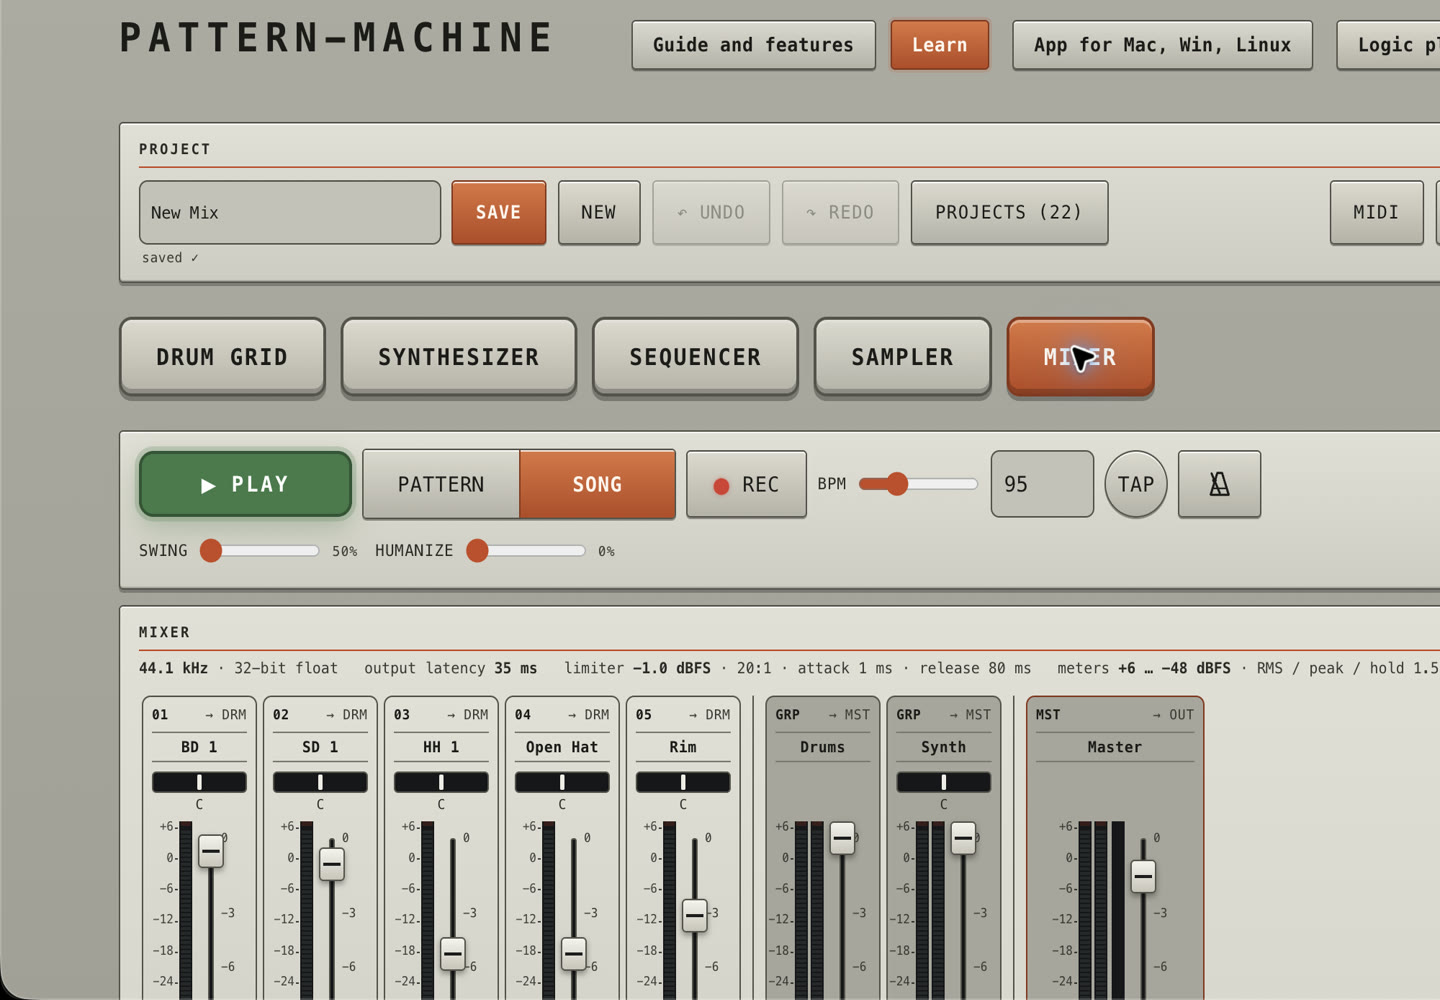
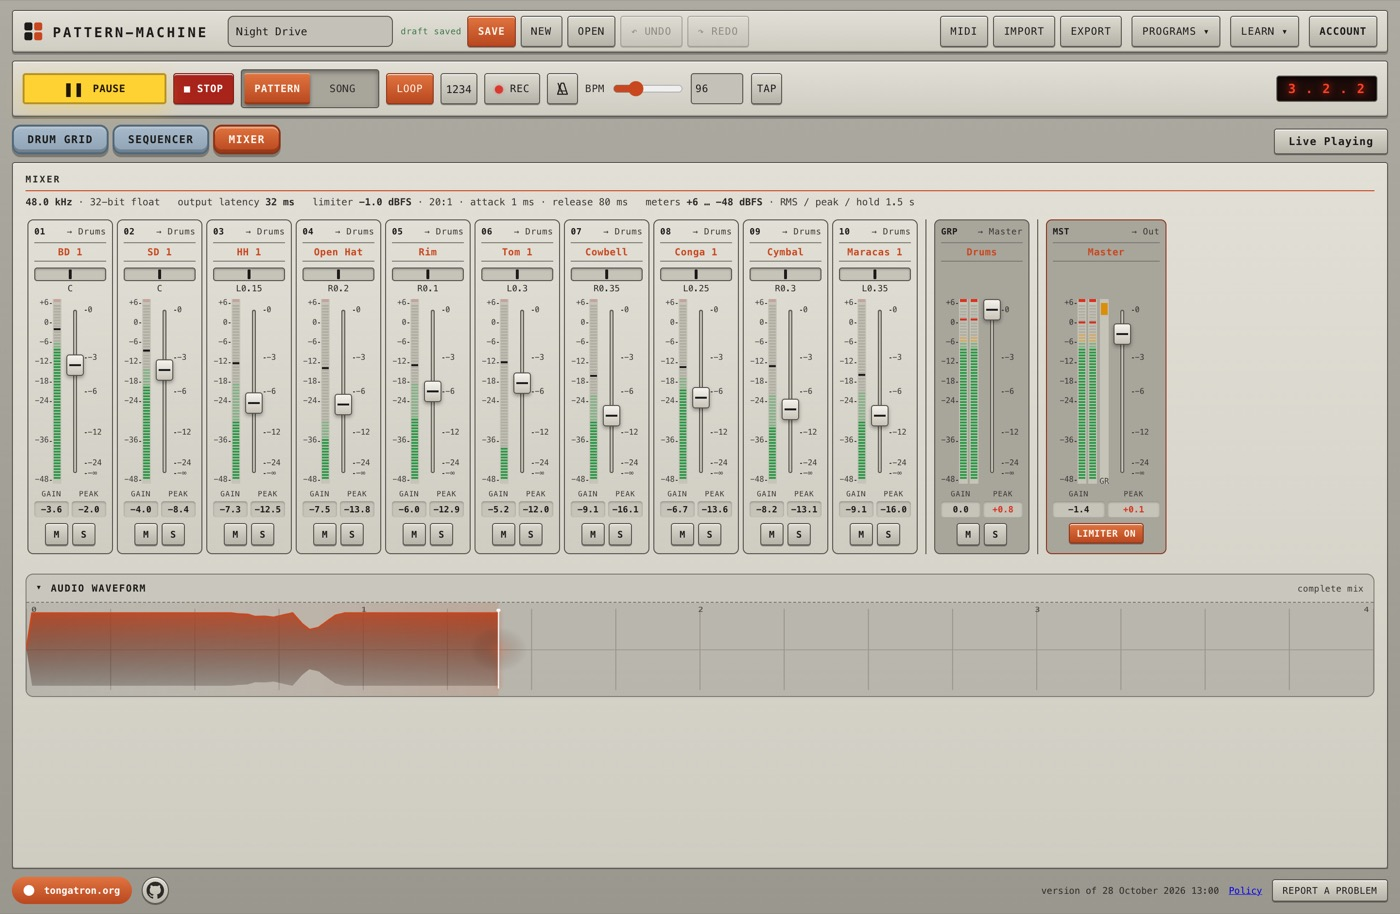
Landing: new One page screenshots, Drum Grid large, Sequencer and Mixer side by side
Recaptured Drum Grid, Sequencer and Mixer from the current One page layout
(TR-808, ten rows, seven-block song, live mixer meters). The gallery now
shows the Drum Grid full width and Sequencer and Mixer in two columns right
below it; captions (EN/IT) follow the new order.

diff --git a/site/landing.html b/site/landing.html
@@ -413,10 +413,10 @@ footer{display:flex; flex-direction:column; align-items:center; gap:10px; margin
 <section class="panel" id="screens">
   <p class="label">Screenshots</p>
   <div class="gallery">
-    <figure class="wide"><img src="assets/landing/griglia.jpg?v=2026-10-05.1" alt="Drum Grid with per-step Probability, Ratchets, Flam, Tuning, Decay and Filter controls" loading="lazy" width="1440" height="1000"><figcaption>Drum Grid · deep per-step editing</figcaption></figure>
-    <figure><img src="assets/landing/sequencer.jpg?v=2026-10-05.1" alt="Song Sequencer with arrangement blocks and a synth lane" loading="lazy" width="1440" height="1000"><figcaption>Sequencer · song blocks and synth lane</figcaption></figure>
+    <figure class="wide"><img src="assets/landing/griglia.jpg?v=2026-10-28.1" alt="Drum Grid on a Roland TR-808 with ten rows and per-step Probability, Ratchets, Flam, Tuning, Decay and Filter controls" loading="lazy" width="2000" height="1305"><figcaption>Drum Grid · deep per-step editing</figcaption></figure>
+    <figure><img src="assets/landing/sequencer.jpg?v=2026-10-28.1" alt="Song Sequencer with colored arrangement blocks for intro, verse, chorus and break" loading="lazy" width="1400" height="914"><figcaption>Sequencer · song blocks and sections</figcaption></figure>
+    <figure><img src="assets/landing/mixer.jpg?v=2026-10-28.1" alt="Mixer with per-row strips, live meters, a drum group, the master limiter and the mix waveform" loading="lazy" width="1400" height="914"><figcaption>Mixer · rows, meters and limiter</figcaption></figure>
     <figure><img src="assets/landing/tema-scuro.jpg?v=2026-10-05.1" alt="Synthesizer piano roll in the dark theme" loading="lazy" width="1440" height="1000"><figcaption>Synthesizer · notes, scales and presets</figcaption></figure>
-    <figure><img src="assets/landing/mixer.jpg?v=2026-10-05.1" alt="Mixer with per-row strips, meters and master limiter" loading="lazy" width="1440" height="1000"><figcaption>Mixer · rows, meters and limiter</figcaption></figure>
     <figure><img src="assets/landing/midi.jpg?v=2026-10-05.1" alt="MIDI keyboard pads and knobs assignments" loading="lazy" width="1440" height="1000"><figcaption>MIDI · factory maps and Learn</figcaption></figure>
     <figure><img src="assets/landing/macchine.jpg?v=2026-10-05.1" alt="The machines page with 14 drum machines" loading="lazy" width="1440" height="1000"><figcaption>Machines · fourteen classic kits</figcaption></figure>
     <figure><img src="assets/landing/plugin-logic.jpg?v=2026-10-05.1" alt="PATTERN-MACHINE inside Logic Pro" loading="lazy" width="1440" height="1000"><figcaption>Inside Logic Pro · synced plug-in</figcaption></figure>
@@ -516,7 +516,7 @@ const LANDING_TEXT = {
       map: "Factory map", note: "Pads: bank A plays the first 8 rows of the grid, bank B the transport. Keys: the synth. Any other keyboard gets the same layout, and everything can be reassigned with Learn."
     },
     machines: { label: "The machines", title: "Fourteen legends, one grid.", text: "Switching machine maps every row to the closest sound, while preserving the pattern. Each kit shows maker, year and specs, and the machines page tells the history of each one with side-by-side listening." },
-    screens: { label: "Screenshots", captions: ["Drum Grid · deep per-step editing", "Sequencer · song blocks and synth lane", "Synthesizer · notes, scales and presets", "Mixer · rows, meters and limiter", "MIDI · factory maps and Learn", "Machines · fourteen classic kits", "Inside Logic Pro · synced plug-in", "On the phone · offline PWA"], phone: "The same drum machine on a phone: install it from the browser and keep working offline." },
+    screens: { label: "Screenshots", captions: ["Drum Grid · deep per-step editing", "Sequencer · song blocks and sections", "Mixer · rows, meters and limiter", "Synthesizer · notes, scales and presets", "MIDI · factory maps and Learn", "Machines · fourteen classic kits", "Inside Logic Pro · synced plug-in", "On the phone · offline PWA"], phone: "The same drum machine on a phone: install it from the browser and keep working offline." },
     export: { label: "To your DAW", headers: ["Format", "What you get"], rows: [["MIDI", "Pattern or whole song as Logic-mapped, General MIDI or multitrack MIDI, with tempo, swing and ratchets"], ["WAV", "Pattern or song mix with row levels, effects, synth and master limiter"], ["MP3", "Pattern or song for listening and sharing, in every browser"], ["DAW package", "MIDI, one WAV stem per instrument and kit samples, packaged for Logic Pro, Ableton Live, REAPER and other DAWs"], ["Project", "Full PATTERN-MACHINE JSON project or a public embed player link"], ["Live MIDI", "Desktop app: virtual port and MIDI Clock sync with your DAW"]] },
     access: { label: "Access", title: "Start making beats.", text: "Sign in to open the drum machine and download the desktop app and the Logic plug-in. New here? Registration takes a minute, or try it as a guest.", button: "Sign in or create an account", links: [["Drum machine →", "The web app, in the browser"], ["Desktop app →", "macOS, Windows, Linux"], ["Logic plug-in →", "AU and VST3"], ["Guide →", "Every feature, step by step"], ["The machines →", "History, sounds and specs"]] },
     footer: "Privacy policy"
@@ -563,7 +563,7 @@ const LANDING_TEXT = {
       map: "Mappa di fabbrica", note: "Pad: il banco A suona le prime 8 righe della griglia, il banco B controlla il trasporto. Tasti: il synth. Le altre tastiere ricevono la stessa disposizione e tutto può essere riassegnato con Learn."
     },
     machines: { label: "Le macchine", title: "Quattordici leggende, una griglia.", text: "Cambiare macchina assegna ogni riga al suono più vicino, conservando il pattern. Ogni kit mostra produttore, anno e specifiche; la pagina delle macchine racconta la storia di ciascuna con ascolti a confronto." },
-    screens: { label: "Screenshot", captions: ["Drum Grid · editing profondo di ogni step", "Sequencer · blocchi della canzone e lane synth", "Synthesizer · note, scale e preset", "Mixer · righe, meter e limiter", "MIDI · mappe di fabbrica e Learn", "Macchine · quattordici kit classici", "Dentro Logic Pro · plug-in sincronizzato", "Sul telefono · PWA offline"], phone: "La stessa drum machine sul telefono: installala dal browser e continua a lavorare offline." },
+    screens: { label: "Screenshot", captions: ["Drum Grid · editing profondo di ogni step", "Sequencer · blocchi della canzone e sezioni", "Mixer · righe, meter e limiter", "Synthesizer · note, scale e preset", "MIDI · mappe di fabbrica e Learn", "Macchine · quattordici kit classici", "Dentro Logic Pro · plug-in sincronizzato", "Sul telefono · PWA offline"], phone: "La stessa drum machine sul telefono: installala dal browser e continua a lavorare offline." },
     export: { label: "Verso la tua DAW", headers: ["Formato", "Cosa ottieni"], rows: [["MIDI", "Pattern o canzone intera come MIDI mappato per Logic, General MIDI o multitrack MIDI, con tempo, swing e ratchet"], ["WAV", "Mix del pattern o della canzone con livelli delle righe, effetti, synth e limiter master"], ["MP3", "Pattern o canzone da ascoltare e condividere, in ogni browser"], ["Pacchetto DAW", "MIDI, uno stem WAV per strumento e i sample del kit, impacchettati per Logic Pro, Ableton Live, REAPER e altre DAW"], ["Progetto", "Progetto JSON PATTERN-MACHINE completo o link a un player embed pubblico"], ["MIDI live", "App desktop: porta virtuale e sincronizzazione MIDI Clock con la DAW"]] },
     access: { label: "Accesso", title: "Inizia a creare beat.", text: "Accedi per aprire la drum machine e scaricare l'app desktop e il plug-in Logic. È la prima volta? Registrarsi richiede un minuto, oppure puoi provarla come ospite.", button: "Accedi o crea un account", links: [["Drum machine →", "L'app web, nel browser"], ["App desktop →", "macOS, Windows, Linux"], ["Plug-in Logic →", "AU e VST3"], ["Guida →", "Ogni funzione, passo dopo passo"], ["Le macchine →", "Storia, suoni e specifiche"]] },
     footer: "Privacy policy"
